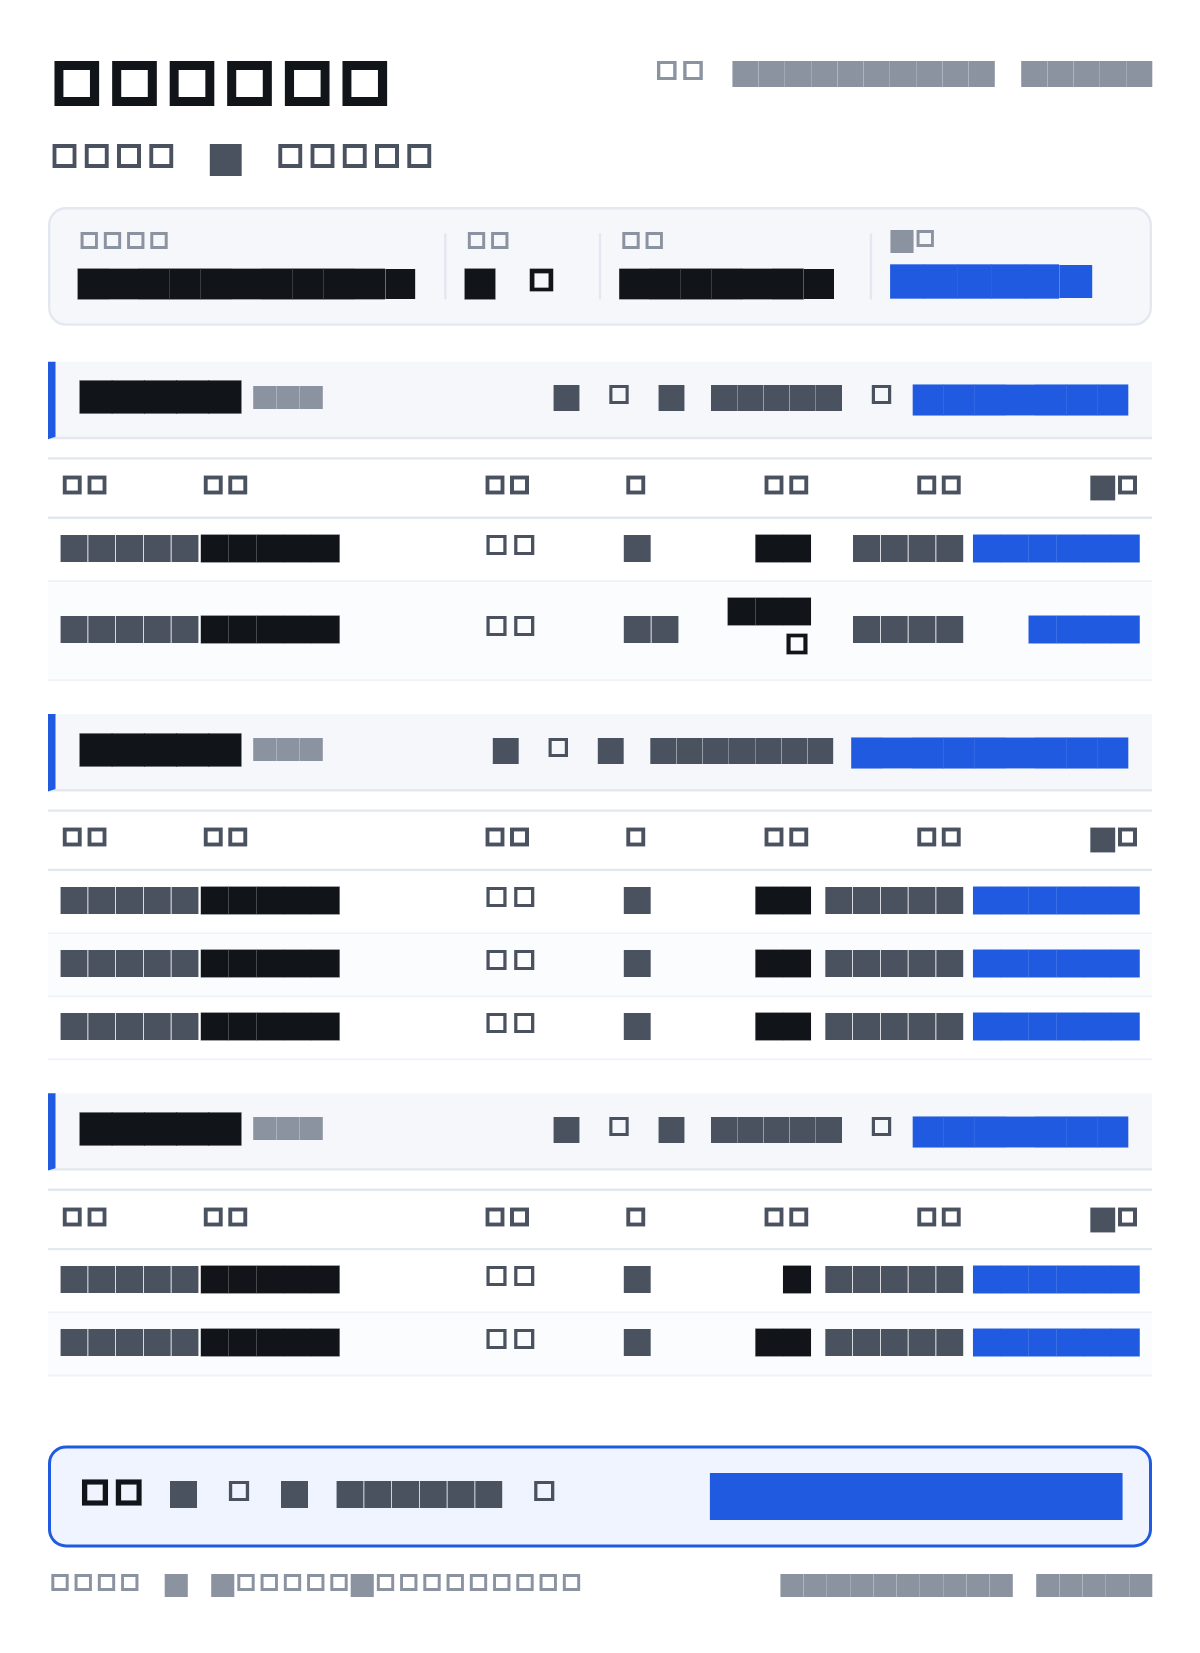
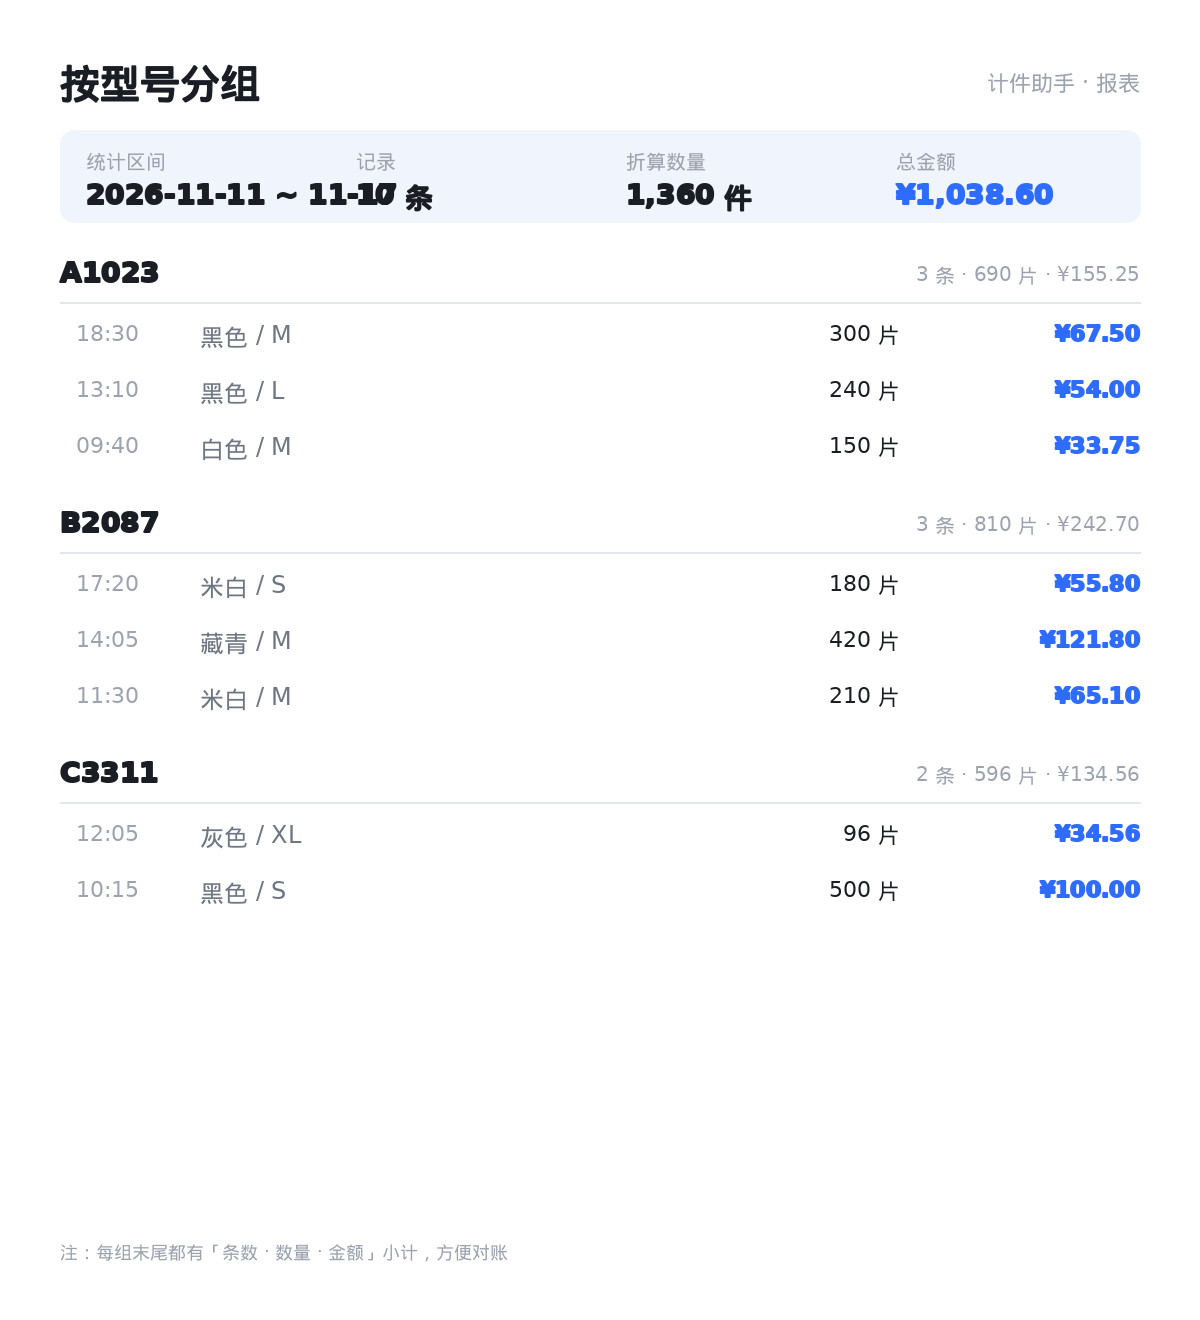
docs: 重画三张报表示意图（修方块）
- 原来 docs/preview/report_{external,compact,by_style}.png 是旧的方块渲染，
  README 里「按型号分组 / 对外版 / 紧凑版」三张图全是空心方块
- 新增 tool/make_report_previews.py：按中文/拉丁分段用两套字体绘制，
  排版对齐 App 的报表规则（页眉信息带 / 分组 / 组末小计）
- README 措辞改为「脚本绘制的排版示意」，不再声称是真机渲染
- 顺手删掉早期遗留的真机截图 docs/preview/device_*.png

diff --git a/tool/make_report_previews.py b/tool/make_report_previews.py
@@ -1,0 +1,207 @@
+#!/usr/bin/env python3
+"""生成 README 里三张「报表渲染效果」图（对外版 / 紧凑版 / 按型号分组）。
+
+和 tool/make_screenshots.py 一样是**脚本绘制**，不是真机截图：
+系统里唯一的 CJK 字体没有拉丁字形，所以按「中文段 / 拉丁段」分段用两套字体，
+否则数字和符号会变成空心方块。
+
+跑法：python3 tool/make_report_previews.py
+产物：docs/preview/report_{external,compact,by_style}.png
+"""
+import os
+from PIL import Image, ImageDraw, ImageFont
+
+FONT_CJK = '/usr/share/fonts/truetype/droid/DroidSansFallbackFull.ttf'
+FONT_LATIN = '/usr/share/fonts/truetype/dejavu/DejaVuSans.ttf'
+FONT_LATIN_BOLD = '/usr/share/fonts/truetype/dejavu/DejaVuSans-Bold.ttf'
+OUT = os.path.join(os.path.dirname(__file__), '..', 'docs', 'preview')
+
+W = 1200
+INK = (26, 29, 36)
+INK2 = (110, 118, 132)
+INK3 = (156, 163, 175)
+PRIMARY = (46, 107, 255)
+LINE = (226, 230, 238)
+BAND = (240, 244, 253)
+
+
+def _is_cjk(ch):
+    o = ord(ch)
+    return (0x2E80 <= o <= 0x9FFF) or (0xF900 <= o <= 0xFAFF) or \
+        (0xFF00 <= o <= 0xFFEF) or (0x3000 <= o <= 0x303F)
+
+
+def _runs(s):
+    out = []
+    for ch in s:
+        c = _is_cjk(ch)
+        if out and out[-1][1] == c:
+            out[-1] = (out[-1][0] + ch, c)
+        else:
+            out.append((ch, c))
+    return out
+
+
+def _fonts(size, bold):
+    return (ImageFont.truetype(FONT_CJK, size),
+            ImageFont.truetype(FONT_LATIN_BOLD if bold else FONT_LATIN, size))
+
+
+def measure(d, s, size, bold=False):
+    cjk, latin = _fonts(size, bold)
+    return sum(d.textlength(run, font=cjk if c else latin) for run, c in _runs(s))
+
+
+def text(d, xy, s, size=24, color=INK, bold=False, anchor='la'):
+    cjk, latin = _fonts(size, bold)
+    total = measure(d, s, size, bold)
+    x, y = xy
+    if anchor in ('ra', 'rm'):
+        x -= total
+    elif anchor in ('ma', 'mm'):
+        x -= total / 2
+    for run, is_cjk in _runs(s):
+        ft = cjk if is_cjk else latin
+        d.text((x, y), run, font=ft, fill=color,
+               stroke_width=1 if bold else 0, stroke_fill=color)
+        x += d.textlength(run, font=ft)
+
+
+RECORDS = [
+    ('18:30', 'A1023', '黑色', 'M', '300 片', '0.225', '67.50'),
+    ('13:10', 'A1023', '黑色', 'L', '240 片', '0.225', '54.00'),
+    ('09:40', 'A1023', '白色', 'M', '150 片', '0.225', '33.75'),
+    ('17:20', 'B2087', '米白', 'S', '180 片', '0.31', '55.80'),
+    ('14:05', 'B2087', '藏青', 'M', '420 片', '0.29', '121.80'),
+    ('11:30', 'B2087', '米白', 'M', '210 片', '0.31', '65.10'),
+    ('12:05', 'C3311', '灰色', 'XL', '96 片', '0.36', '34.56'),
+    ('10:15', 'C3311', '黑色', 'S', '500 片', '0.20', '100.00'),
+]
+
+HEAD = [('统计区间', '2026-11-11 ~ 11-17'), ('记录', '10 条'),
+        ('折算数量', '1,360 件'), ('总金额', '¥1,038.60')]
+
+
+def page(height=1500):
+    img = Image.new('RGB', (W, height), (255, 255, 255))
+    return img, ImageDraw.Draw(img)
+
+
+def header(d, y, title):
+    text(d, (60, y), title, 40, INK, bold=True)
+    text(d, (W - 60, y + 12), '计件助手 · 报表', 22, INK3, anchor='ra')
+    y += 74
+    # 关键信息带
+    d.rounded_rectangle((60, y, W - 60, y + 92), radius=14, fill=BAND)
+    cw = (W - 120) // 4
+    for i, (label, value) in enumerate(HEAD):
+        x = 60 + i * cw + 26
+        text(d, (x, y + 18), label, 20, INK3)
+        text(d, (x, y + 48), value, 28, PRIMARY if i == 3 else INK, bold=True)
+    return y + 92 + 34
+
+
+def thumb(d, x, y, size=54):
+    """缩略图位（App 里的「无图」占位样式）"""
+    d.rounded_rectangle((x, y, x + size, y + size), radius=8, fill=(243, 245, 249))
+    d.rounded_rectangle((x + 12, y + 14, x + size - 12, y + size - 14),
+                        radius=4, outline=INK3, width=2)
+    d.ellipse((x + 17, y + 19, x + 24, y + 26), outline=INK3, width=2)
+
+
+def group_title(d, y, title, sub):
+    text(d, (60, y), title, 28, INK, bold=True)
+    text(d, (W - 60, y + 6), sub, 20, INK3, anchor='ra')
+    d.line((60, y + 46, W - 60, y + 46), fill=LINE, width=2)
+    return y + 64
+
+
+def subtotal(d, y, label, qty, amount):
+    d.rounded_rectangle((60, y, W - 60, y + 56), radius=10, fill=(248, 250, 254))
+    text(d, (80, y + 14), label, 22, INK2, bold=True)
+    text(d, (W - 300, y + 14), qty, 22, INK2, anchor='ra')
+    text(d, (W - 80, y + 14), amount, 22, INK2, anchor='ra', bold=True)
+    return y + 76
+
+
+def external():
+    img, d = page(1420)
+    y = header(d, 56, '对外版报表（带缩略图）')
+    y = group_title(d, y, '11 月 17 日', '3 条 · 690 片')
+    for (t, style, color, size, qty, price, amt) in RECORDS[:3]:
+        thumb(d, 62, y - 4)
+        text(d, (134, y + 2), t, 22, INK3)
+        text(d, (210, y), f'{style}  {color}  {size}', 26, INK, bold=True)
+        text(d, (210, y + 34), f'{qty} × ¥{price}', 20, INK2)
+        text(d, (W - 200, y), qty, 24, INK, anchor='ra')
+        text(d, (W - 62, y), f'¥{amt}', 24, PRIMARY, anchor='ra', bold=True)
+        y += 74
+        d.line((60, y - 18, W - 60, y - 18), fill=LINE, width=1)
+    y = subtotal(d, y - 6, '小计 · 3 条', '690 片', '¥155.25')
+    y = group_title(d, y, '11 月 16 日', '2 条 · 600 片')
+    for (t, style, color, size, qty, price, amt) in RECORDS[3:5]:
+        thumb(d, 62, y - 4)
+        text(d, (134, y + 2), t, 22, INK3)
+        text(d, (210, y), f'{style}  {color}  {size}', 26, INK, bold=True)
+        text(d, (210, y + 34), f'{qty} × ¥{price}', 20, INK2)
+        text(d, (W - 200, y), qty, 24, INK, anchor='ra')
+        text(d, (W - 62, y), f'¥{amt}', 24, PRIMARY, anchor='ra', bold=True)
+        y += 74
+        d.line((60, y - 18, W - 60, y - 18), fill=LINE, width=1)
+    subtotal(d, y - 6, '小计 · 2 条', '600 片', '¥177.60')
+    text(d, (60, 1370), '注：缩略图按 App 真实的「无图」占位绘制；数据为示例', 18, INK3)
+    img.save(os.path.join(OUT, 'report_external.png'))
+
+
+def compact():
+    img, d = page(1180)
+    y = header(d, 56, '自用紧凑版报表')
+    # 表头
+    cols = [60, 220, 420, 640, 840, 1040]
+    heads = ['时间', '型号', '颜色 / 码数', '数量', '单价', '小计']
+    for x, h in zip(cols, heads):
+        text(d, (x, y), h, 20, INK3)
+    y += 40
+    d.line((60, y, W - 60, y), fill=LINE, width=2)
+    y += 16
+    for (t, style, color, size, qty, price, amt) in RECORDS:
+        text(d, (cols[0], y), t, 22, INK3)
+        text(d, (cols[1], y - 2), style, 24, INK, bold=True)
+        text(d, (cols[2], y), f'{color} / {size}', 22, INK2)
+        text(d, (cols[3], y), qty, 22, INK, anchor='ra')
+        text(d, (cols[4] + 120, y), f'¥{price}', 22, INK2, anchor='ra')
+        text(d, (W - 60, y), f'¥{amt}', 22, PRIMARY, anchor='ra', bold=True)
+        y += 62
+        d.line((60, y - 20, W - 60, y - 20), fill=LINE, width=1)
+    y = subtotal(d, y, '合计 · 10 条', '1,360 片', '¥1,038.60')
+    text(d, (60, 1100), '注：数据为示例；同一份排版就是导出 PNG 的样子', 18, INK3)
+    img.save(os.path.join(OUT, 'report_compact.png'))
+
+
+def by_style():
+    img, d = page(1320)
+    y = header(d, 56, '按型号分组')
+    groups = [
+        ('A1023', '3 条 · 690 片 · ¥155.25', RECORDS[0:3]),
+        ('B2087', '3 条 · 810 片 · ¥242.70', RECORDS[3:6]),
+        ('C3311', '2 条 · 596 片 · ¥134.56', RECORDS[6:8]),
+    ]
+    for name, summary, rows in groups:
+        y = group_title(d, y, name, summary)
+        for (t, style, color, size, qty, price, amt) in rows:
+            text(d, (76, y), t, 22, INK3)
+            text(d, (200, y), f'{color} / {size}', 24, INK2)
+            text(d, (W - 300, y), qty, 22, INK, anchor='ra')
+            text(d, (W - 60, y), f'¥{amt}', 22, PRIMARY, anchor='ra', bold=True)
+            y += 56
+        y += 18
+    text(d, (60, 1240), '注：每组末尾都有「条数 · 数量 · 金额」小计，方便对账', 18, INK3)
+    img.save(os.path.join(OUT, 'report_by_style.png'))
+
+
+if __name__ == '__main__':
+    os.makedirs(OUT, exist_ok=True)
+    external()
+    compact()
+    by_style()
+    print('wrote', OUT)

diff --git a/README.md b/README.md
@@ -124,7 +124,7 @@ piecework/
 
 ### 3. 报表按「能对账」排版
 
-实际渲染效果（离屏渲染 1200px 宽，与导出 PNG 同源）：
+报表排版示意（`tool/make_report_previews.py` 脚本绘制，示例数据；与导出 PNG 同一套排版规则）：
 
 | 对外版（带缩略图） | 自用紧凑版 |
 |---|---|
